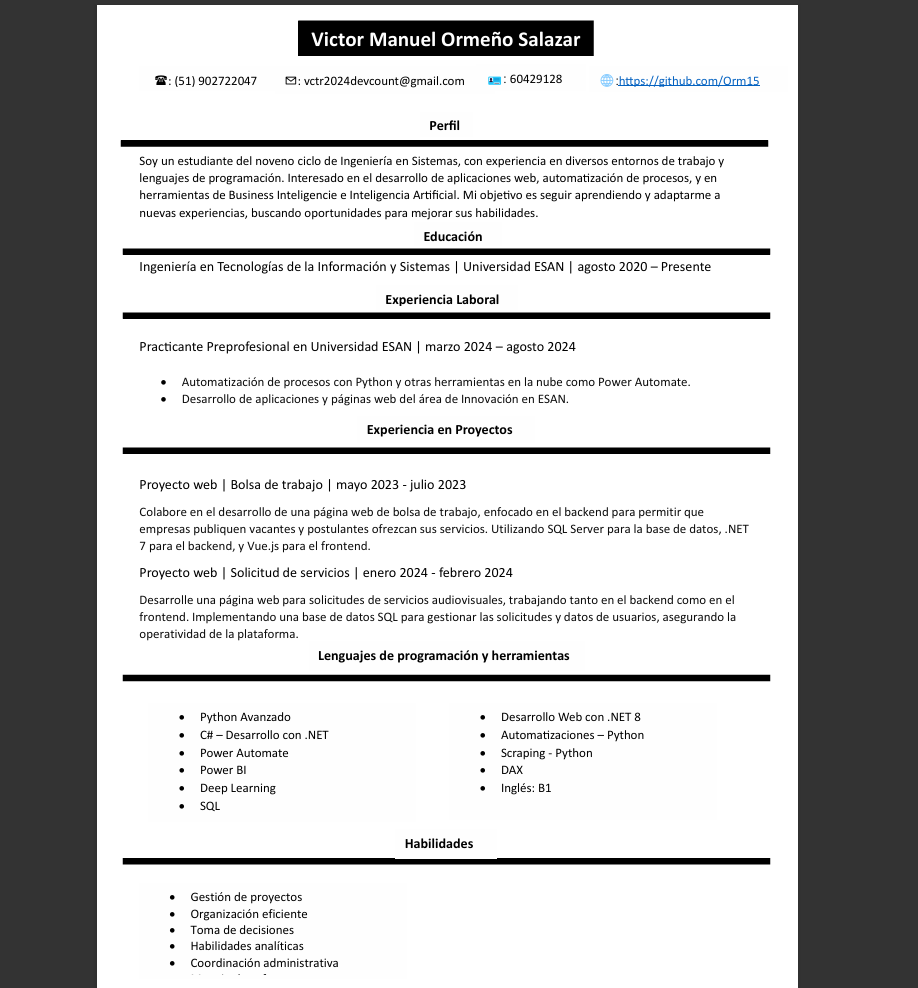
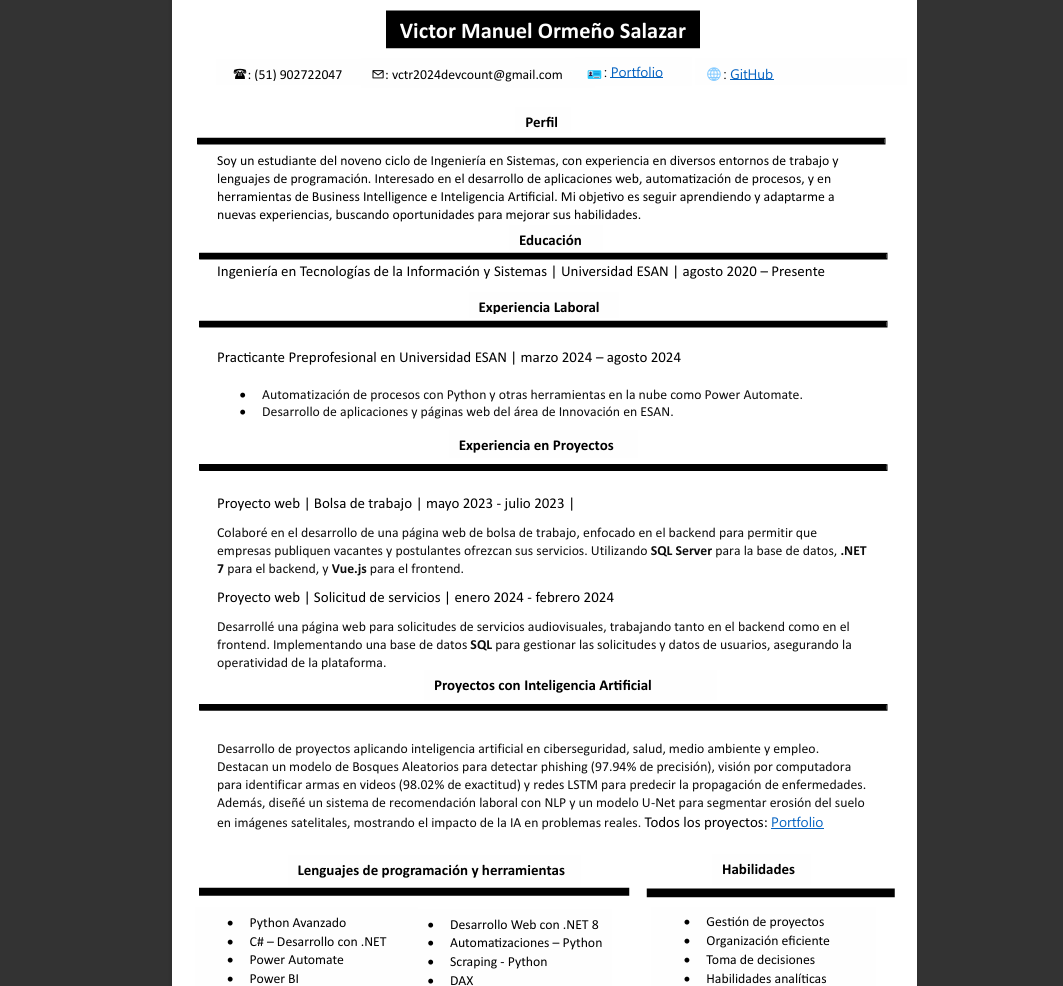
mofificacion del cv

Changed region(s): [[0.0915, 0.0, 0.8845, 1.0]]

diff --git a/index.html b/index.html
@@ -423,7 +423,7 @@
                             
                             <img class="mx-auto rounded-circle" src="assets/img/team/cv.png" alt="..." />
                             <h4>CV</h4>
-                            <a href="https://drive.google.com/uc?export=download&id=1LlBRNVsUU1jpRcPOYcLilHKVFKX1pBv8" download>Descargar CV</a>
+                            <a href="https://drive.google.com/uc?export=download&id=1-4nZDa_4nJrnqEIfXeShCslgEISQVk3j" download>Descargar CV</a>
                         </div>
                     </div>
 
